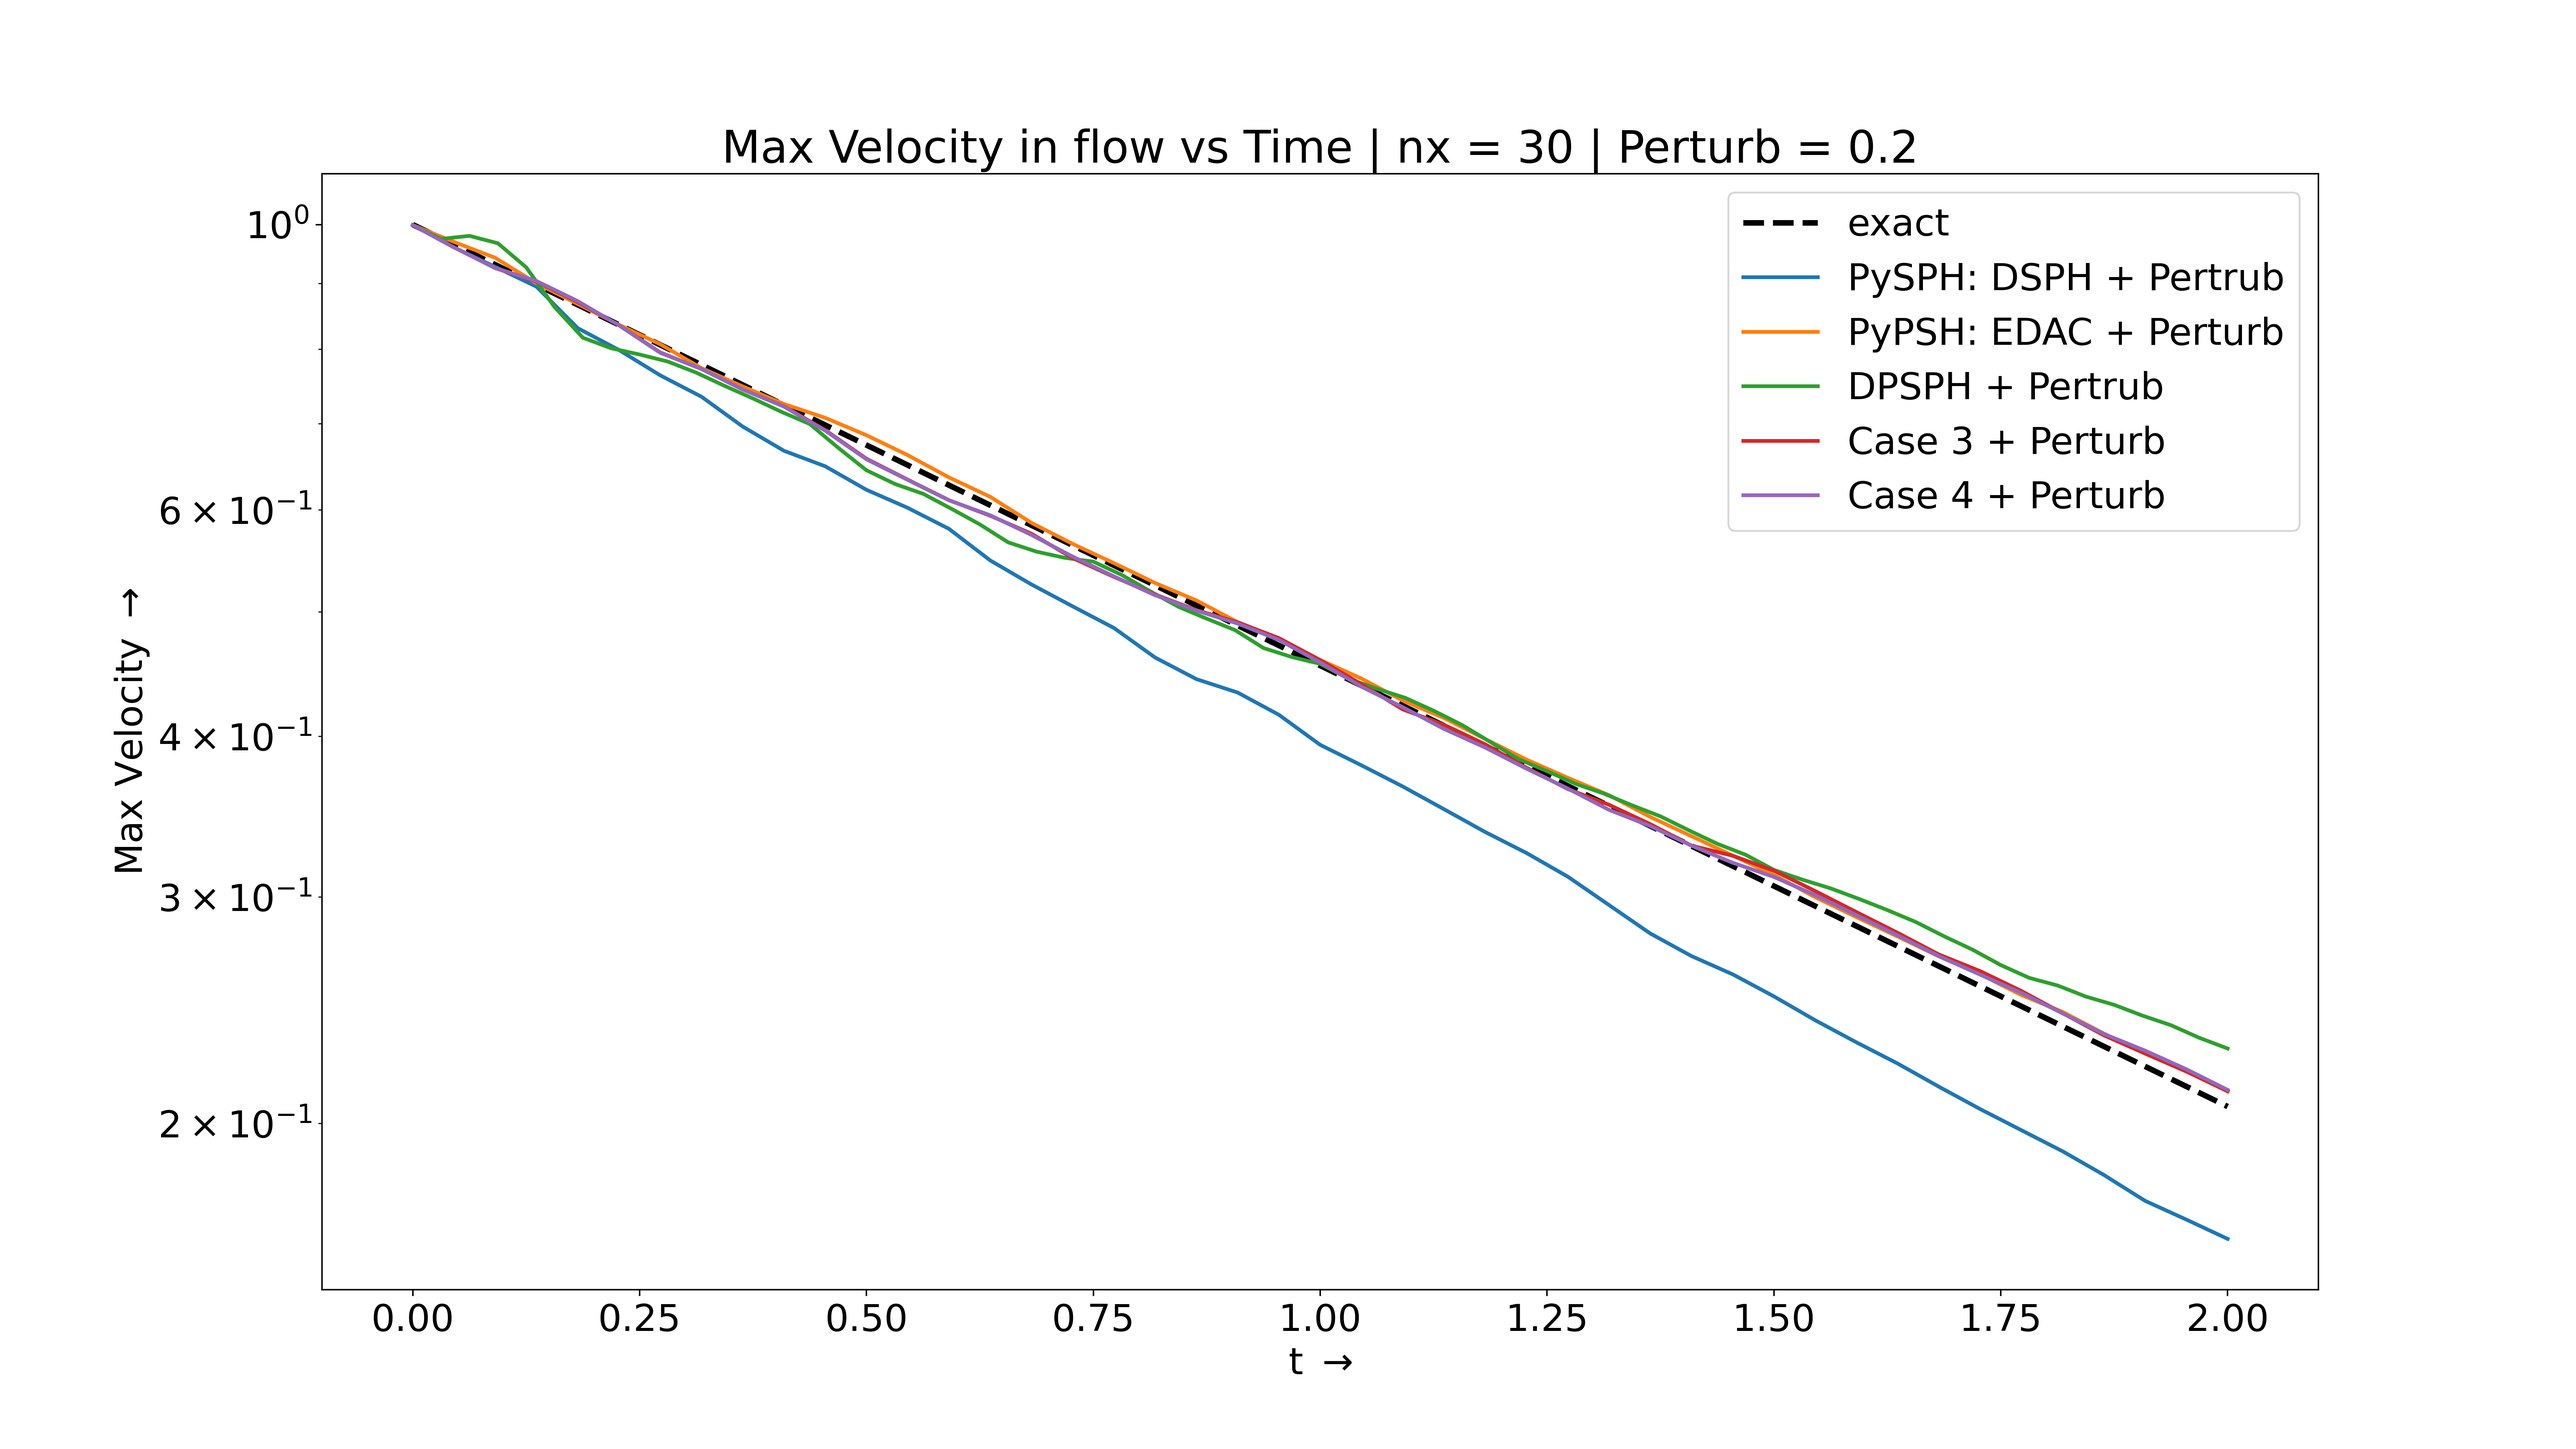
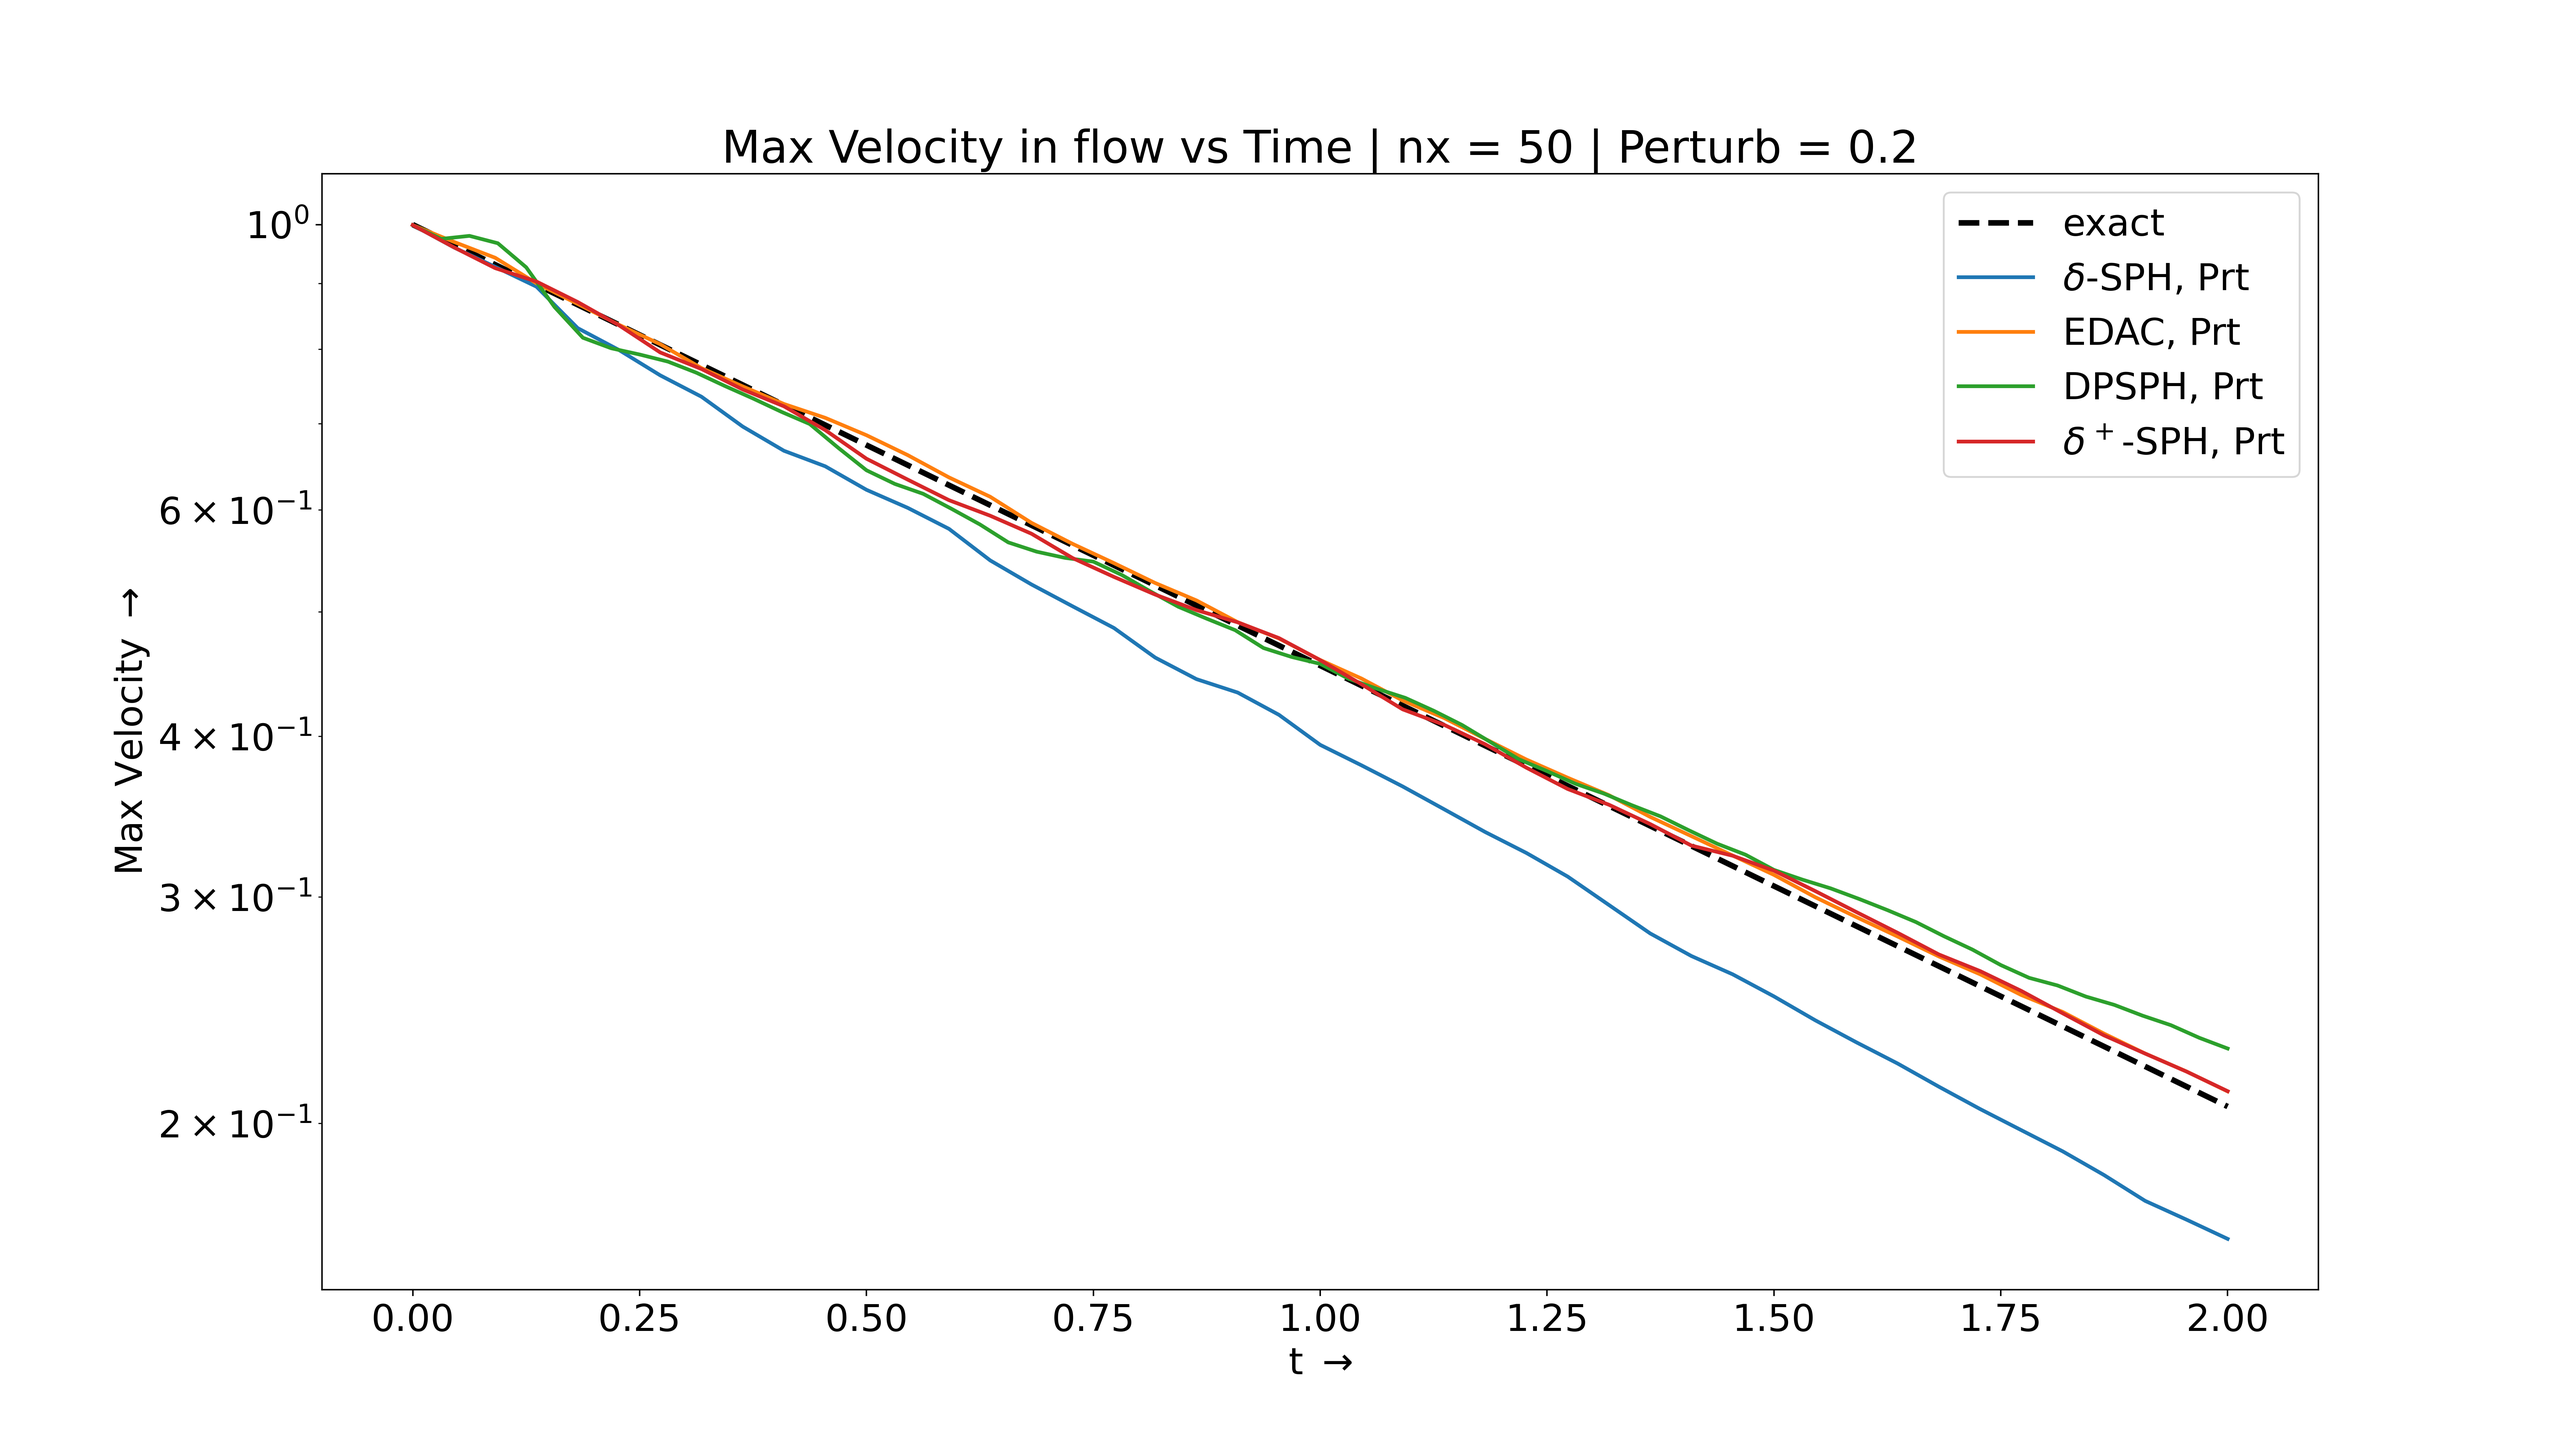
UPDATE: ------------- TGV plots

Changed region(s): [[0.6875, 0.125, 0.875, 0.375]]

diff --git a/SLP/Taylor Green Vortex/plot_pysph_testing.py b/SLP/Taylor Green Vortex/plot_pysph_testing.py
@@ -9,16 +9,18 @@ plt.rcParams.update({'font.size': 20})
 file_base = '/home/prajwal/Desktop/Winter_Project/SLP-Smoothed-Particle-Hydrodynamics/SLP/Taylor Green Vortex/PySPH-Testing/'
 
 
-sph_schm = ['01', '08', '03', '07', '10']
+sph_schm = ['01', '08', '03', '07']
 
 sph_schm_legend = {
-    '00': 'PySPH: DSPH', '01': 'PySPH: DSPH + Pertrub', '02': 'DPSPH', 
-    '03': 'DPSPH + Pertrub', '04': 'Case 1', '05': 'Case 2',
-    '06': 'Case 3', '07': 'Case 3 + Perturb', '08': 'PyPSH: EDAC + Perturb',
-    '09': 'PySPH: EDAC', '10': 'Case 4 + Perturb', '11': 'Case 3 + Perturb',
-    '12': 'DPSPH + Perturb', '13': 'PySPH: DSPH + Perturb', '14': 'PySPH: EDAC + Pertrub'
+    '00':  r'$\delta$-SPH', '01': r'$\delta$-SPH, Prt', '02': 'DPSPH-SPH', 
+    '03': 'DPSPH, Prt', '04': 'Case 1', '05': 'Case 2',
+    '06': r'$\delta^+$-SPH', '07': r'$\delta^+$-SPH, Prt', '08': 'EDAC, Prt',
+    '09': 'EDAC', '10': r'$\delta^+$-SPH, Prt, TEOS', 
+    '11': r'$\delta^+$-SPH, Prt, nx=30',
+    '12': r'$\delta^+$-SPH, Prt, nx=30', '13': r'$\delta$-SPH, Prt, nx=30', 
+    '14': 'EDAC, Prt, nx=30'
     }
-title_additional = ' | nx = 30 | Perturb = 0.2'
+title_additional = ' | nx = 50 | Perturb = 0.2'
 savefig_additional = ''
 
 ################################################################################
